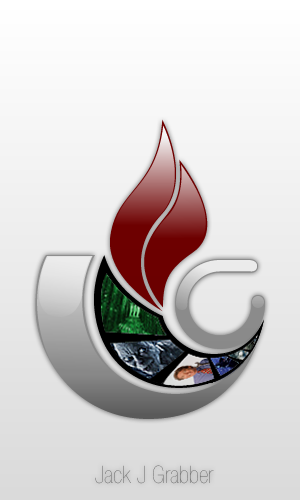
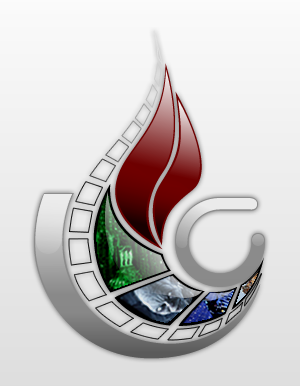
new design

Changed region(s): [[0.09, 0.0622, 0.9, 0.9637]]

diff --git a/jtg/presentation/GuiTabAbout.java b/jtg/presentation/GuiTabAbout.java
@@ -18,8 +18,6 @@ Foundation, Inc., 675 Mass Ave, Cambridge, MA 02139, USA.
 
 */ 
 
-import java.awt.Dimension;
-
 import javax.swing.ImageIcon;
 import javax.swing.JLabel;
 import javax.swing.JPanel;
@@ -45,7 +43,8 @@ public class GuiTabAbout extends JPanel {
 	private JScrollPane scrollPaneAuthors;
 	private JScrollPane scrollPaneOther;
 	private ImageIcon imageLogo;
-	private JLabel linkHomePage;
+	private JPanel jGrabberInfo;
+	private JLabel linkHomePage, linkApache, linkProjectX, linkUdrec, linkDom4j, linkForms, linkSystray, labelOther, labelJGrabber, labelJGrabber2;
 
 	public GuiTabAbout(ControlAboutTab ctrl) {
 		super();
@@ -55,18 +54,41 @@ public class GuiTabAbout extends JPanel {
 
 	private  void initialize() {
 		FormLayout layout = new FormLayout(
-						  "pref:grow, 8dlu, 400:grow",  		// columns 
-						  "pref, 4dlu, f:50:grow, 4dlu, pref, 4dlu, f:300:grow, pref"); 			// rows
+						  "200:grow, 8dlu, pref:grow",  		// columns 
+						  "pref, 4dlu, f:50:grow, 4dlu, pref, 4dlu, f:320:grow, pref"); 			// rows
 				PanelBuilder builder = new PanelBuilder(this, layout);
 				builder.setDefaultDialogBorder();
 				CellConstraints cc = new CellConstraints();
 		
 				builder.addSeparator(ControlMain.getProperty("label_version"),					cc.xy	(1, 1));
-				builder.add(this.getScrollPaneVersion(),		cc.xy	(1, 3));
+				builder.add(this.getScrollPaneVersion(),															cc.xy	(1, 3));
 				builder.addSeparator(ControlMain.getProperty("label_authors"),					cc.xy	(1, 5));
-				builder.add(this.getScrollPaneAuthors(),		cc.xywh	(1, 7, 1, 2));
-				builder.add(new JLabel(this.getImageLogo()),	cc.xywh	(3, 1, 1, 7));
-				builder.add(this.getLinkHomePage(),				cc.xywh	(3, 8, 1, 1, CellConstraints.CENTER, CellConstraints.FILL ));
+				builder.add(this.getScrollPaneAuthors(),															cc.xywh	(1, 7, 1, 2));
+				builder.add(this.getPanelJGrabberInfo(),															cc.xywh	(3, 1, 1, 6));	
+				builder.add(new JLabel(this.getImageLogo()),												cc.xywh	(3, 7, 1, 1));
+				builder.add(this.getLinkHomePage(),																cc.xywh	(3, 8, 1, 1, CellConstraints.CENTER, CellConstraints.FILL ));
+	}
+	
+	private JPanel getPanelJGrabberInfo() {
+		if (jGrabberInfo == null) {
+			jGrabberInfo = new JPanel();
+			FormLayout layout = new FormLayout(
+			        "f:pref:grow, f:20,  f:pref:grow",	 		//columns 
+			  "pref, pref, 10, pref, pref, pref, pref, pref");							//rows
+			PanelBuilder builder = new PanelBuilder(jGrabberInfo, layout);
+			CellConstraints cc = new CellConstraints();
+
+			builder.add(this.getLabelJgrabber(),																cc.xywh	(1, 1, 3, 1));
+			builder.add(this.getLabelJgrabber2(),																cc.xywh	(1, 2, 3, 1));
+			builder.add(this.getLabelOther(),																		cc.xywh	(1, 4, 3, 1));
+			builder.add(this.getLinkApache(),																	cc.xywh	(1, 5, 1, 1));
+			builder.add(this.getLinkDom4j(),																		cc.xywh	(1, 6, 1, 1));
+			builder.add(this.getLinkForms(),																		cc.xywh	(1, 7, 1, 1));
+			builder.add(this.getLinkProjectX(),																	cc.xywh	(3, 5, 1, 1));
+			builder.add(this.getLinkUdrec(),																		cc.xywh	(3, 6, 1, 1));
+			builder.add(this.getLinkSystray(),																	cc.xywh	(3, 7, 1, 1));
+		}
+		return jGrabberInfo;
 	}
 	    
 	/**
@@ -170,7 +192,6 @@ public class GuiTabAbout extends JPanel {
 		if (scrollPaneVersion == null) {
 			scrollPaneVersion = new JScrollPane();
 			scrollPaneVersion.setViewportView(this.getTaVersion());
-			scrollPaneVersion.setPreferredSize(new Dimension(250, 120));
 		}
 		return scrollPaneVersion;
 	}
@@ -185,12 +206,118 @@ public class GuiTabAbout extends JPanel {
 	/**
 	 * @return Returns the linkHomePage.
 	 */
+	public JLabel getLinkApache() {
+		if (linkApache == null) {
+			linkApache = new JLabel("<HTML><font color=blue><u>commons & log4j</u></font></HTML>");
+			linkApache.setName("www.apache.org");
+			linkApache.addMouseListener(control);
+		}
+		return linkApache;
+	}
+	
+	/**
+	 * @return Returns the linkHomePage.
+	 */
+	public JLabel getLinkProjectX() {
+		if (linkProjectX == null) {
+			linkProjectX = new JLabel("<HTML><font color=blue><u>Project X</u></font></HTML>");
+			linkProjectX.setName("www.lucike.info/");
+			linkProjectX.addMouseListener(control);
+		}
+		return linkProjectX;
+	}
+	
+	/**
+	 * @return Returns the linkHomePage.
+	 */
+	public JLabel getLinkUdrec() {
+		if (linkUdrec == null) {
+			linkUdrec = new JLabel("<HTML><font color=blue><u>udrec</u></font></HTML>");
+			linkUdrec.setName("www.haraldmaiss.de");
+			linkUdrec.addMouseListener(control);
+		}
+		return linkUdrec;
+	}
+	
+	/**
+	 * @return Returns the linkHomePage.
+	 */
+	public JLabel getLinkDom4j() {
+		if (linkDom4j == null) {
+			linkDom4j = new JLabel("<HTML><font color=blue><u>dom4j</u></font></HTML>");
+			linkDom4j.setName("www.dom4j.org");
+			linkDom4j.addMouseListener(control);
+		}
+		return linkDom4j;
+	}
+	
+	/**
+	 * @return Returns the linkHomePage.
+	 */
+	public JLabel getLinkForms() {
+		if (linkForms == null) {
+			linkForms = new JLabel("<HTML><font color=blue><u>forms & looks</u></font></HTML>");
+			linkForms.setName("www.jgoodies.com/freeware/forms/index.html");
+			linkForms.addMouseListener(control);
+		}
+		return linkForms;
+	}
+	
+	/**
+	 * @return Returns the linkHomePage.
+	 */
+	public JLabel getLinkSystray() {
+		if (linkSystray == null) {
+			linkSystray = new JLabel("<HTML><font color=blue><u>systray4j</u></font></HTML>");
+			linkSystray.setName("http://sourceforge.net/projects/systray/");
+			linkSystray.addMouseListener(control);
+		}
+		return linkSystray;
+	}
+	
+	/**
+	 * @return Returns the linkGpl.
+	 */
+	public JLabel getLabelOther() {
+		if (labelOther == null) {
+			labelOther = new JLabel("This product includes software developed by other projects");
+		}
+		return labelOther;
+	}
+	
+	/**
+	 * @return Returns the linkHomePage.
+	 */
 	public JLabel getLinkHomePage() {
 		if (linkHomePage == null) {
-			linkHomePage = new JLabel("<HTML><font color=blue><u>www.jackthegrabber.de</u></font></HTML>");
+			linkHomePage = new JLabel("<HTML><font color=blue><u>Jack the Grabber</u></font></HTML>");
 			linkHomePage.setName("www.jackthegrabber.de");
 			linkHomePage.addMouseListener(control);
 		}
 		return linkHomePage;
+	}
+	
+	/**
+	 * @return Returns the linkHomePage.
+	 */
+	public JLabel getLabelJgrabber() {
+		if (labelJGrabber == null) {
+			labelJGrabber = new JLabel("Jack the JGrabber is free software, and is released under the");
+			labelJGrabber.setName("www.jackthegrabber.de");
+			labelJGrabber.addMouseListener(control);
+		}
+		return labelJGrabber;
+	}
+	
+	/**
+	 * @return Returns the linkHomePage.
+	 */
+	public JLabel getLabelJgrabber2() {
+		if (labelJGrabber2 == null) {
+			labelJGrabber2 = new JLabel("<HTML><font color=blue><u>GNU General Public License</u></font></HTML>");
+			labelJGrabber2.setName("www.gnu.org/licenses/gpl.txt");
+			labelJGrabber2.addMouseListener(control);
+		}
+		return labelJGrabber2;
 	}
 }

diff --git a/jtg/control/ControlAboutTab.java b/jtg/control/ControlAboutTab.java
@@ -45,9 +45,8 @@ public class ControlAboutTab extends ControlTab implements MouseListener {
 	}
 	
 	private void showVersion() {
-		for (int i=0; i<ControlMain.version.length; i++) {
-			this.getMainView().getTabAbout().getTaVersion().append(ControlMain.version[i]+"\n");
-		}
+		this.getMainView().getTabAbout().getTaVersion().append(ControlMain.version[0]+"\n");
+		this.getMainView().getTabAbout().getTaVersion().append(ControlMain.version[1]+"\n");
 	}
 	private void showOther() {
 		
